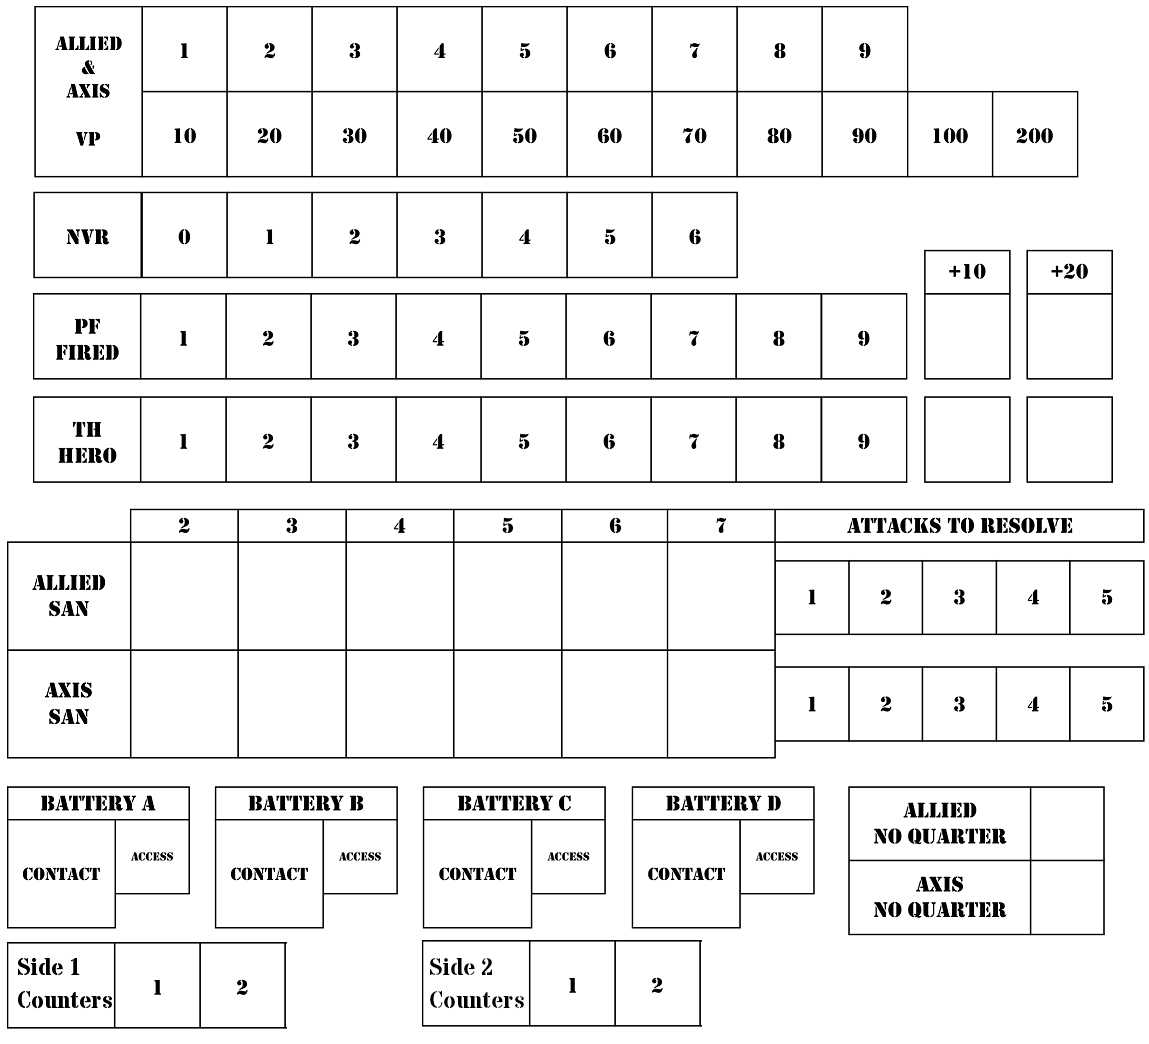
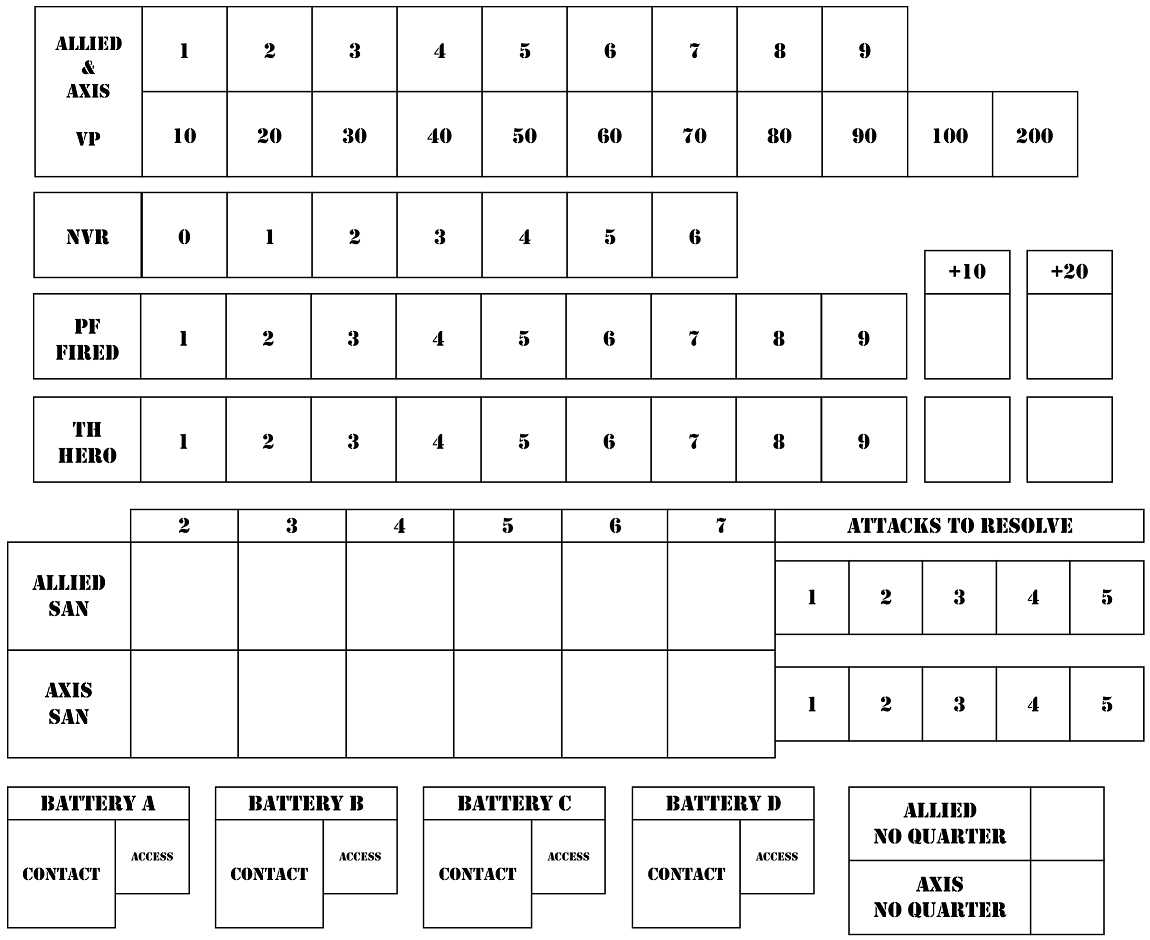
Switch `PBS Tracker Sheet` to `PBS Sides` for improved clarity; update region handling and add new map configuration.

Changed region(s): [[0.0, 0.0, 1.0, 1.0]]

diff --git a/src/ASLPBSChecker.java b/src/ASLPBSChecker.java
@@ -40,8 +40,8 @@ public class ASLPBSChecker extends AbstractConfigurable
     public static ASLPBSChecker aslPBSChecker;
 
     protected static ASLMap mainMap;
-    protected static Map pbsMap;   // PBS Tracker Sheet  (≈ saslMap in SASLActivationChecker)
-    protected static Map sacMap;   // Scenario Aid Card  (night rules)
+    protected static Map pbsSidesMap;   // PBS Sides  (≈ saslMap in SASLActivationChecker)
+    protected static Map sacMap;        // Scenario Aid Card  (night rules)
 
     protected VASLGameInterface VASLGameInterface;
 
@@ -50,10 +50,10 @@ public class ASLPBSChecker extends AbstractConfigurable
 
     final ArrayList<GamePiece> pieceList = new ArrayList<>();
 
-    private String factionANat1 = "";  // da regione NatA1 su PBS Tracker Sheet
-    private String factionANat2 = "";  // da regione NatA2 su PBS Tracker Sheet
-    private String factionBNat1 = "";  // da regione NatB1 su PBS Tracker Sheet
-    private String factionBNat2 = "";  // da regione NatB2 su PBS Tracker Sheet
+    private String factionANat1 = "";  // da regione NatA1 su PBS Sides
+    private String factionANat2 = "";  // da regione NatA2 su PBS Sides
+    private String factionBNat1 = "";  // da regione NatB1 su PBS Sides
+    private String factionBNat2 = "";  // da regione NatB2 su PBS Sides
     private int    nvr          = -1;
 
     // -------------------------------------------------------------------------
@@ -249,7 +249,7 @@ public class ASLPBSChecker extends AbstractConfigurable
     private void updateView(ArrayList<GamePiece> movedunits) {
         boolean clear = true;
 
-        if ((pbsMap == null) && !isPBSExtensionPresent()) {
+        if ((pbsSidesMap == null) && !isPBSExtensionPresent()) {
             return;
         }
         if (mainMap == null || mainMap.getVASLMap() == null) {
@@ -497,23 +497,52 @@ public class ASLPBSChecker extends AbstractConfigurable
     }
 
     private void updateNationalities() {
-        if (pbsMap == null) return;
-        GamePiece[] p = pbsMap.getPieces();
+        if (pbsSidesMap == null) return;
+        GamePiece[] p = pbsSidesMap.getPieces();
+        getGameModule().getChatter().send(
+            "*** PBS updateNationalities(): pbsMap ha " + p.length + " pezzi"
+        );
+        for (GamePiece gp : p) {
+            java.awt.Point pos = gp.getPosition();
+            String pieceName = Decorator.getInnermost(gp).getName();
+            getGameModule().getChatter().send(
+                "***   pezzo: '" + pieceName + "' pos=(" + (int)pos.getX() + "," + (int)pos.getY() + ")"
+            );
+        }
+        for (String rn : new String[]{"NatA1","NatA2","NatB1","NatB2"}) {
+            VASSAL.build.module.map.boardPicker.board.Region r = pbsSidesMap.findRegion(rn);
+            if (r == null) {
+                getGameModule().getChatter().send("***   regione '" + rn + "': NOT FOUND");
+            } else {
+                getGameModule().getChatter().send(
+                    "***   regione '" + rn + "' origin=("
+                    + (int)r.getOrigin().getX() + "," + (int)r.getOrigin().getY() + ")"
+                );
+            }
+        }
         factionANat1 = nationalityOfPieceInRegion(p, factionANat1, "NatA1");
         factionANat2 = nationalityOfPieceInRegion(p, factionANat2, "NatA2");
         factionBNat1 = nationalityOfPieceInRegion(p, factionBNat1, "NatB1");
         factionBNat2 = nationalityOfPieceInRegion(p, factionBNat2, "NatB2");
         getGameModule().getChatter().send(
-                "*** PBS updateNationalities(): factionANat1=" + factionANat1
+            "*** PBS updateNationalities(): A1='" + factionANat1 + "' A2='" + factionANat2
+            + "' B1='" + factionBNat1 + "' B2='" + factionBNat2 + "'"
         );
     }
 
     private String checkPieceLocation(GamePiece piece, String regionName) {
         java.awt.Point currentPoint = piece.getPosition();
-        VASSAL.build.module.map.boardPicker.board.Region region = pbsMap.findRegion(regionName);
-        if ((region != null)
-                && (currentPoint.getX() == region.getOrigin().getX())
-                && (currentPoint.getY() == region.getOrigin().getY())) {
+        VASSAL.build.module.map.boardPicker.board.Region region = pbsSidesMap.findRegion(regionName);
+        if (region == null) return "";
+        java.awt.Point origin = region.getOrigin();
+        boolean match = (currentPoint.getX() == origin.getX()) && (currentPoint.getY() == origin.getY());
+        getGameModule().getChatter().send(
+            "***   checkPieceLocation: '" + Decorator.getInnermost(piece).getName()
+            + "' pos=(" + (int)currentPoint.getX() + "," + (int)currentPoint.getY() + ")"
+            + " region='" + regionName + "' origin=(" + (int)origin.getX() + "," + (int)origin.getY() + ")"
+            + " match=" + match
+        );
+        if (match) {
             return getNationality(piece);
         }
         return "";
@@ -629,13 +658,13 @@ public class ASLPBSChecker extends AbstractConfigurable
 
     private boolean isPBSExtensionPresent() {
         getGameModule().getChatter().send(
-                "*** PBS isPBSExtensionPresent(): searching for PBS Tracker Sheet.."
+                "*** PBS isPBSExtensionPresent(): searching for PBS Sides.."
         );
         for (Buildable b : getGameModule().getBuildables()) {
-            if (b instanceof Map && ((Map) b).getMapName().equals("PBS Tracker Sheet")) {
-                pbsMap = (Map) b;
+            if (b instanceof Map && ((Map) b).getMapName().equals("PBS Sides")) {
+                pbsSidesMap = (Map) b;
                 getGameModule().getChatter().send(
-                        "*** PBS isPBSExtensionPresent(): found PBS Tracker Sheet"
+                        "*** PBS isPBSExtensionPresent(): found PBS Sides"
                 );
                 return true;
             }
@@ -678,7 +707,7 @@ public class ASLPBSChecker extends AbstractConfigurable
     public void setup(boolean gameStarting) {
         if (!gameStarting) return;
 
-        // pbsMap: cerca la mappa "PBS Tracker Sheet" tra tutte le mappe caricate
+        // pbsMap: cerca la mappa "PBS Sides" tra tutte le mappe caricate
         isPBSExtensionPresent();
 
         // mainMap: se non già impostato via addTo(), cercalo tra tutte le Map attive
@@ -695,7 +724,7 @@ public class ASLPBSChecker extends AbstractConfigurable
 
         getGameModule().getChatter().send(
             "*** PBS setup(): mainMap=" + (mainMap != null ? mainMap.getMapName() : "null")
-            + " pbsMap=" + (pbsMap != null ? pbsMap.getMapName() : "null")
+            + " pbsMap=" + (pbsSidesMap != null ? pbsSidesMap.getMapName() : "null")
         );
     }
 

diff --git a/readme.md b/readme.md
@@ -6,4 +6,4 @@ https://www.facebook.com/groups/358520268920548
 `
 
 ### build the class and deploy
-`javac --release 11 -d /home/nicola/fun-dev/asl_pbs/out -cp /home/nicola/fun-dev/vasl/target/classes:/home/nicola/fun-dev/vassal/vassal-app/target/classes /home/nicola/fun-dev/asl_pbs/src/ASLPBSChecker.java && cd /home/nicola/fun-dev/asl_pbs/out && zip -u /home/nicola/Jottacloud/Vassal/vasl-6.7.2-beta4_ext/asl_pbs.vmdx VASL/build/module/ASLPBSChecker.class`
+`javac --release 11 -d /home/nicola/fun-dev/asl_pbs/out -cp /home/nicola/fun-dev/vasl/target/classes:/home/nicola/fun-dev/vassal/vassal-app/target/classes /home/nicola/fun-dev/asl_pbs/src/ASLPBSChecker.java && cd /home/nicola/fun-dev/asl_pbs/out && zip -u /home/nicola/Jottacloud/Vassal/vasl-6.7.2-beta4_ext/asl_pbs.vmdx VASL/build/module/ASLPBSChecker*.class`